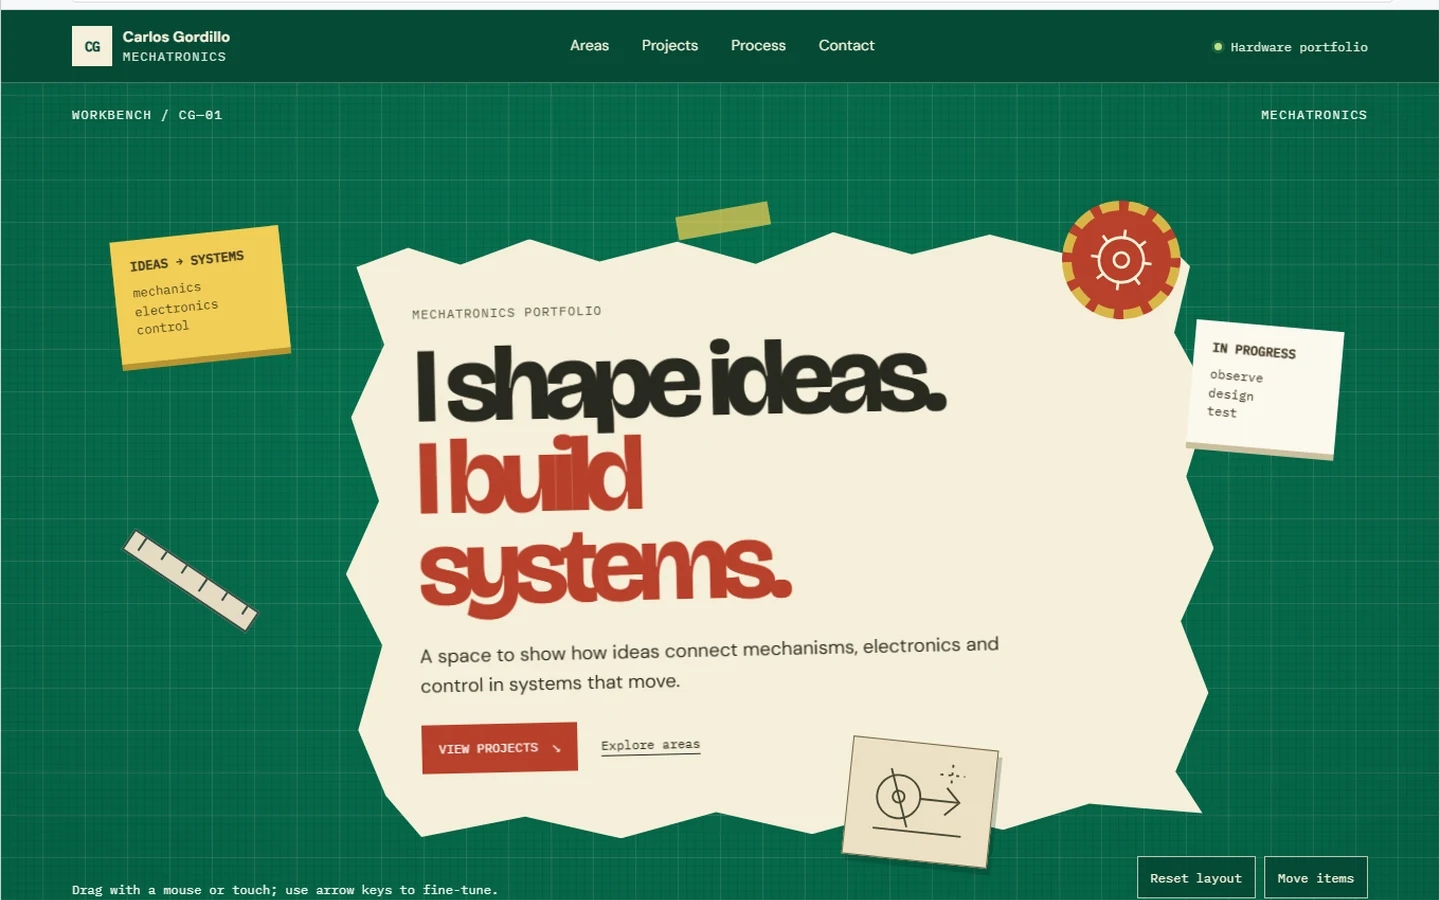
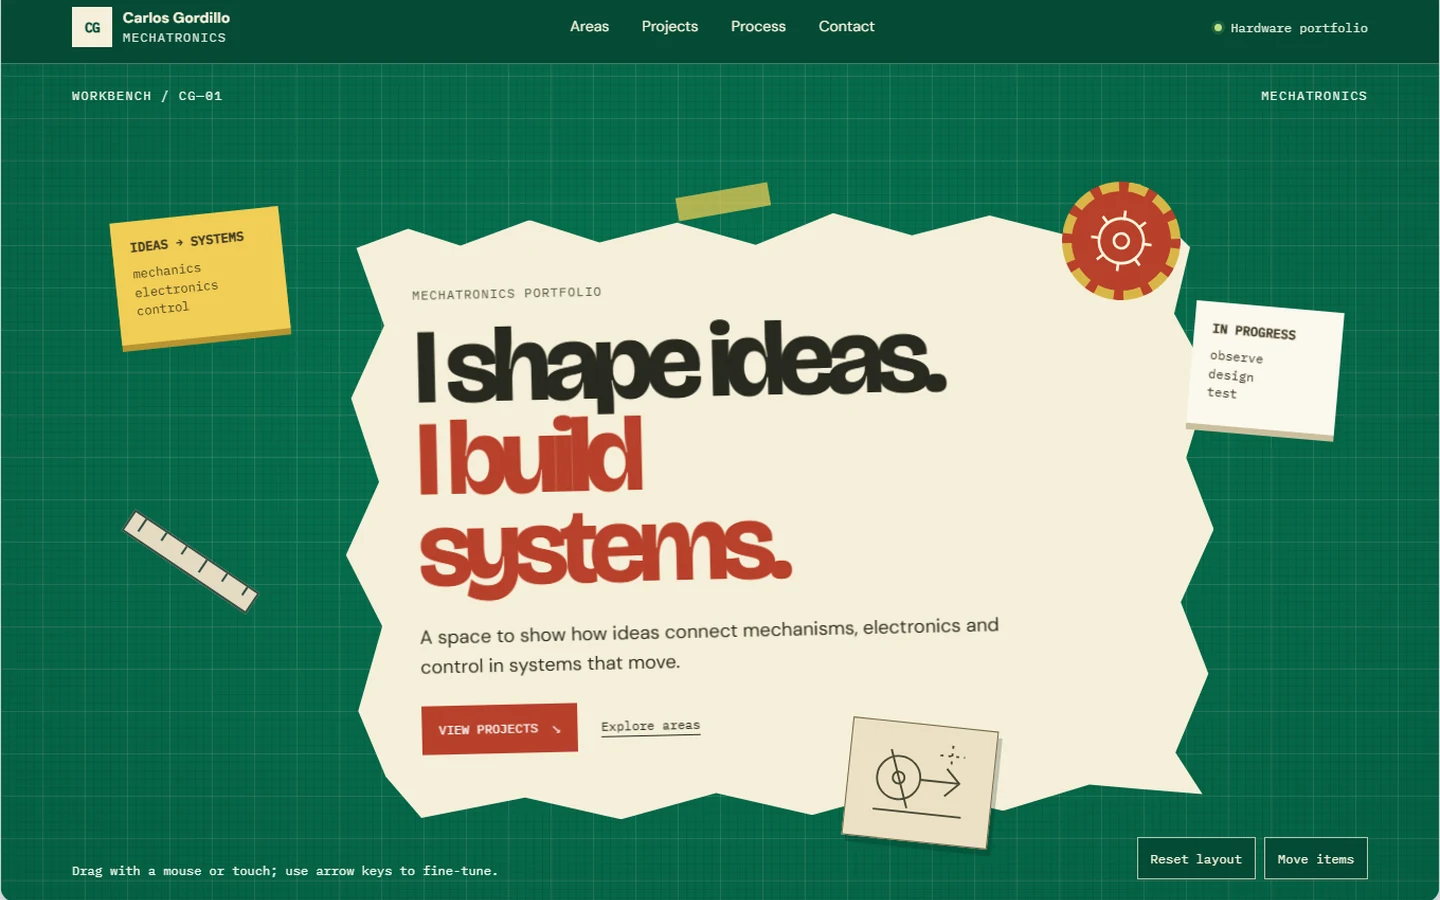
Align the card category, fix dragging and recrop the preview
- The category now sits on the title's last line: with a two-line title it
  used to hang from the first line, which is why some cards looked off
- Dragging: listen on window so the gesture survives leaving the rail, drop the
  1.4x multiplier, and ignore the click the browser fires after a drag so the
  dialog no longer opens when you only meant to scroll
- The mechatronics screenshot starts at the first green row; the white browser
  strip at the top is gone

diff --git a/src/components/Projects.tsx b/src/components/Projects.tsx
@@ -15,6 +15,7 @@ export default function Projects() {
   const { t } = useTranslation();
   const railRef = useRef<HTMLDivElement>(null);
   const [preview, setPreview] = useState<ShowcaseProject | null>(null);
+  const draggedRef = useRef(false);
 
   // Drag to scroll
   useEffect(() => {
@@ -29,27 +30,35 @@ export default function Projects() {
 
     const onDown = (event: PointerEvent) => {
       // En táctil manda el scroll nativo del navegador
-      if (event.pointerType !== 'mouse') return;
+      if (event.pointerType !== 'mouse' || event.button !== 0) return;
       down = true;
       moved = false;
+      draggedRef.current = false;
       startX = event.clientX;
       startLeft = rail.scrollLeft;
       pointerId = event.pointerId;
     };
+
     const onMove = (event: PointerEvent) => {
       if (!down) return;
       const dx = event.clientX - startX;
       if (!moved) {
-        if (Math.abs(dx) < 6) return;
+        if (Math.abs(dx) < 5) return;
         moved = true;
+        draggedRef.current = true;
         rail.classList.add('drag');
-        rail.setPointerCapture(pointerId);
       }
-      rail.scrollLeft = startLeft - dx * 1.4;
+      event.preventDefault();
+      rail.scrollLeft = startLeft - dx;
     };
+
     const onEnd = () => {
-      if (pointerId >= 0 && rail.hasPointerCapture(pointerId)) {
-        rail.releasePointerCapture(pointerId);
+      if (pointerId >= 0) {
+        try {
+          if (rail.hasPointerCapture(pointerId)) rail.releasePointerCapture(pointerId);
+        } catch {
+          /* la captura puede no existir si el evento fue sintético */
+        }
       }
       down = false;
       moved = false;
@@ -58,15 +67,16 @@ export default function Projects() {
     };
 
     rail.addEventListener('pointerdown', onDown);
-    rail.addEventListener('pointermove', onMove);
-    rail.addEventListener('pointerup', onEnd);
-    rail.addEventListener('pointercancel', onEnd);
+    // Escuchar en window permite arrastrar fuera del carril sin perder el gesto
+    window.addEventListener('pointermove', onMove);
+    window.addEventListener('pointerup', onEnd);
+    window.addEventListener('pointercancel', onEnd);
 
     return () => {
       rail.removeEventListener('pointerdown', onDown);
-      rail.removeEventListener('pointermove', onMove);
-      rail.removeEventListener('pointerup', onEnd);
-      rail.removeEventListener('pointercancel', onEnd);
+      window.removeEventListener('pointermove', onMove);
+      window.removeEventListener('pointerup', onEnd);
+      window.removeEventListener('pointercancel', onEnd);
     };
   }, []);
 
@@ -203,6 +213,12 @@ export default function Projects() {
               draggable={false}
               onDragStart={(event) => event.preventDefault()}
               onClick={(event) => {
+                // Un arrastre no debe abrir la ficha
+                if (draggedRef.current) {
+                  event.preventDefault();
+                  draggedRef.current = false;
+                  return;
+                }
                 // El clic abre la ficha en el sitio; el enlace queda como respaldo
                 if (event.metaKey || event.ctrlKey || event.shiftKey || index >= showcaseProjects.length) return;
                 event.preventDefault();

diff --git a/src/styles/kinetic.css b/src/styles/kinetic.css
@@ -331,7 +331,7 @@ section[id], article[id] { scroll-margin-top: 96px; }
   mask-image: linear-gradient(90deg, transparent 0, #000 var(--pad), #000 calc(100% - var(--pad)), transparent 100%);
 }
 .rail::-webkit-scrollbar { display: none; }
-.rail.drag { cursor: grabbing; scroll-snap-type: none; }
+.rail.drag { cursor: grabbing; scroll-snap-type: none; user-select: none; }
 .card {
   flex: 0 0 min(520px, 72vw);
   scroll-snap-align: start;
@@ -346,9 +346,10 @@ section[id], article[id] { scroll-margin-top: 96px; }
 .card .shot { aspect-ratio: 16/10; overflow: hidden; background: var(--panel-2); }
 .card .shot img { width: 100%; height: 100%; object-fit: cover; object-position: top; transition: transform 0.8s cubic-bezier(0.16, 1, 0.3, 1); }
 .card:hover .shot img { transform: scale(1.04); }
-.card .meta { display: flex; justify-content: space-between; gap: 16px; padding: 18px 20px 20px; align-items: baseline; }
+/* Alineado por abajo: si el título ocupa dos líneas, la categoría sigue la última */
+.card .meta { display: flex; justify-content: space-between; gap: 16px; padding: 18px 20px 20px; align-items: flex-end; }
 .card h3 { font-family: var(--serif); font-weight: 400; font-size: clamp(26px, 2.6vw, 38px); line-height: 1; }
-.card .cat { font-family: var(--mono); font-size: 12px; letter-spacing: 0.1em; text-transform: uppercase; color: var(--dim); white-space: nowrap; }
+.card .cat { font-family: var(--mono); font-size: 12px; letter-spacing: 0.1em; text-transform: uppercase; color: var(--dim); white-space: nowrap; padding-bottom: 2px; }
 .card .go { position: absolute; right: 16px; top: 16px; width: 36px; height: 36px; border-radius: 50%; border: 1px solid var(--line-strong); display: grid; place-items: center; font-size: 14px; background: color-mix(in srgb, var(--bg) 72%, transparent); backdrop-filter: blur(6px); opacity: 0; transform: scale(0.8); transition: opacity 0.3s, transform 0.3s; }
 .card:hover .go { opacity: 1; transform: scale(1); }
 .rail-foot { display: flex; align-items: center; gap: 16px; margin-top: 10px; }
